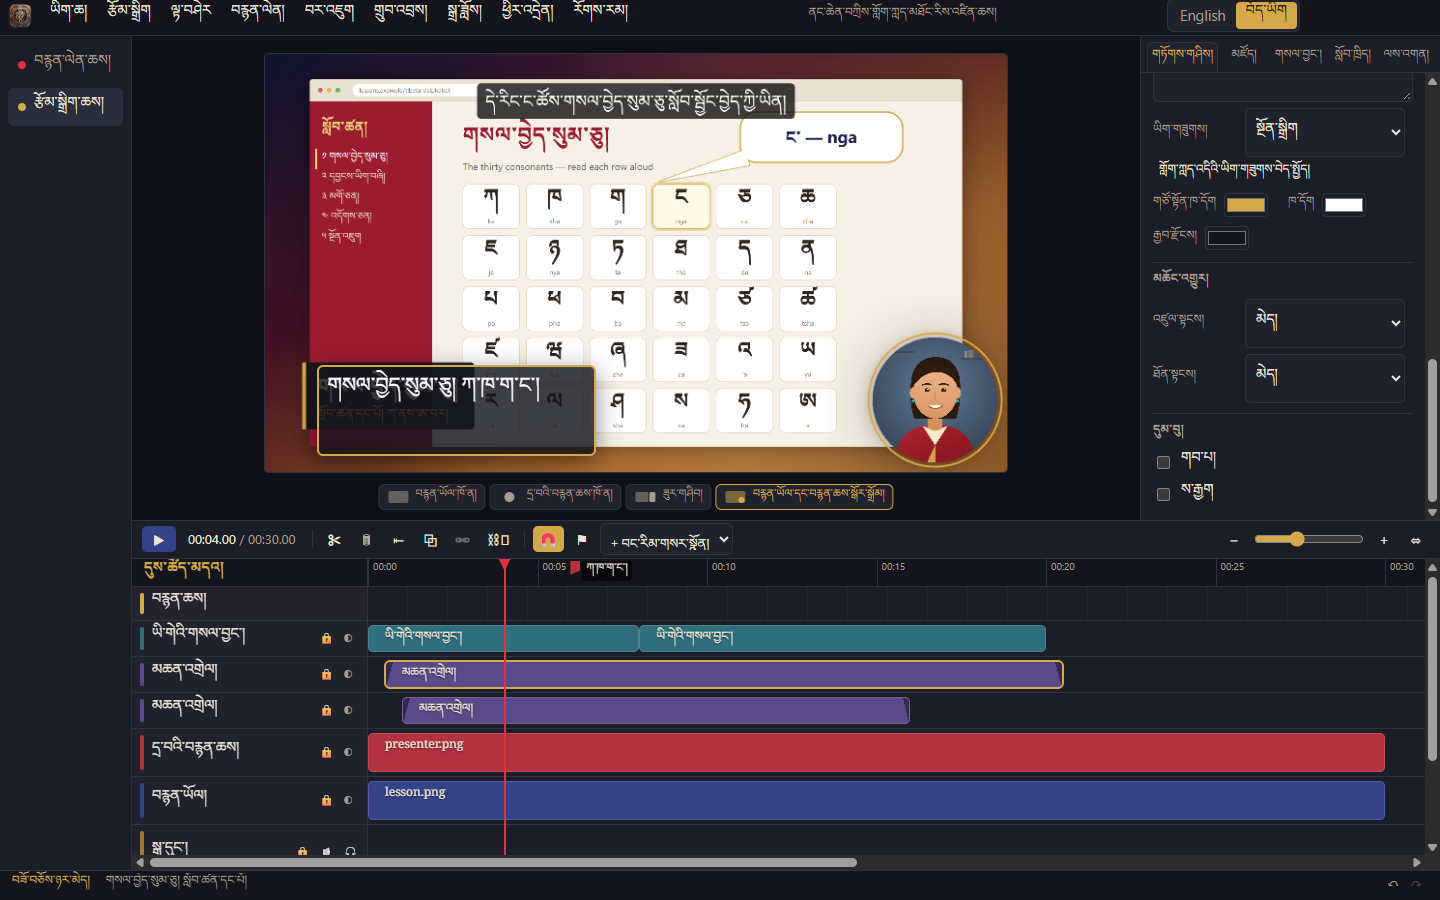
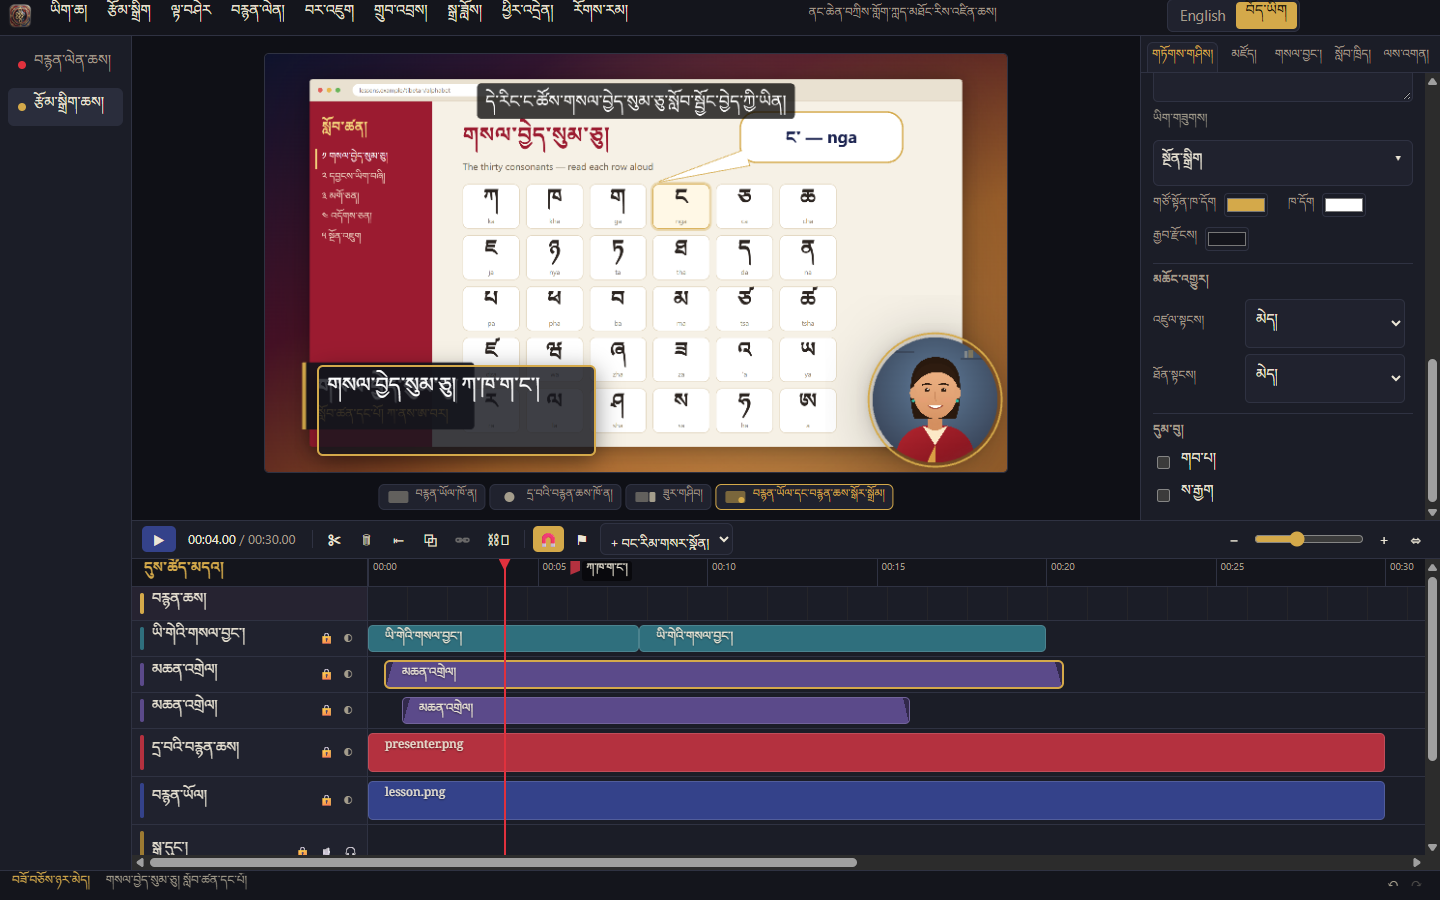
v0.2.2: font option lists every font installed on the computer
- The font picker is now a searchable list: opening it reads all installed fonts
  (Tibetan fonts first, with a ཀ་ཁ་ག་ང་། sample), each name shown in its own font;
  type to search, Enter picks the first match.
- README gallery: new fonts screenshot (Tibetan interface).

diff --git a/src/renderer/src/components/FontPicker.tsx b/src/renderer/src/components/FontPicker.tsx
@@ -1,67 +1,122 @@
 /**
- * Font choice for text, callouts, titles and captions. Lists the built-in fonts;
- * one click adds every font installed on this computer (Tibetan fonts first).
+ * Font choice for text, callouts, titles and captions: a searchable list of every
+ * font installed on this computer (read when the list is first opened, which needs
+ * a click), Tibetan fonts first, each name shown in its own font.
  */
-import { useState } from "react";
-import { BUILT_IN_FONTS, computerFontsLoaded, ensureFont, loadComputerFonts, type FontList } from "../fonts";
+import { useEffect, useMemo, useRef, useState } from "react";
+import { BUILT_IN_FONTS, computerFontsLoaded, ensureFont, isTibetanFont, loadComputerFonts, type FontList } from "../fonts";
 import { useEditor } from "../store";
+
+const TIBETAN = /[ༀ-࿿]/;
+const safe = (f: string) => `"${f.replace(/["\\]/g, "")}"`;
 
 export function FontPicker({ value, onChange }: { value: string | undefined; onChange: (family: string | undefined) => void }) {
   const t = useEditor((s) => s.t);
   const [fonts, setFonts] = useState<FontList | null>(computerFontsLoaded());
   const [state, setState] = useState<"idle" | "loading" | "denied">("idle");
-  const pick = async (family: string) => {
-    const f = family || undefined;
-    await ensureFont(f);
-    onChange(f);
+  const [open, setOpen] = useState(false);
+  const [query, setQuery] = useState("");
+  const box = useRef<HTMLDivElement>(null);
+  const search = useRef<HTMLInputElement>(null);
+
+  const pick = async (family: string | undefined) => {
+    setOpen(false);
+    setQuery("");
+    await ensureFont(family);
+    onChange(family);
   };
-  const loadMine = async () => {
-    setState("loading");
-    const list = await loadComputerFonts();
-    setFonts(list);
-    setState(list ? "idle" : "denied");
+
+  // Opening the list is the click the system needs before it lets the page read the font list.
+  const toggle = () => {
+    const next = !open;
+    setOpen(next);
+    if (next && !fonts && state !== "loading") {
+      setState("loading");
+      void loadComputerFonts().then((list) => {
+        setFonts(list);
+        setState(list ? "idle" : "denied");
+      });
+    }
   };
-  const known = new Set([...BUILT_IN_FONTS, ...(fonts?.tibetan ?? []), ...(fonts?.other ?? [])]);
-  return (
-    <div className="font-picker">
-      <label className="prop">
-        <span className="prop-label">{t("font.label")}</span>
-        <select value={value ?? ""} data-font-picker onChange={(e) => void pick(e.target.value)} style={{ fontFamily: value ? `"${value}", var(--font-latin)` : undefined }}>
-          <option value="">{t("font.default")}</option>
-          {value && !known.has(value) && <option value={value} lang="en" data-l10n-skip>{value}</option>}
-          <optgroup label={t("font.builtIn")}>
-            {BUILT_IN_FONTS.map((f) => (
-              <option key={f} value={f} lang={/[ༀ-࿿]/.test(f) ? "bo" : "en"} data-l10n-skip style={{ fontFamily: `"${f}"` }}>
-                {f}
-              </option>
-            ))}
-          </optgroup>
-          {fonts && fonts.tibetan.length > 0 && (
-            <optgroup label={t("font.tibetan")}>
-              {fonts.tibetan.map((f) => (
-                <option key={f} value={f} lang={/[ༀ-࿿]/.test(f) ? "bo" : "en"} data-l10n-skip style={{ fontFamily: `"${f}"` }}>
-                  {f}
-                </option>
-              ))}
-            </optgroup>
-          )}
-          {fonts && (
-            <optgroup label={t("font.computer")}>
-              {fonts.other.map((f) => (
-                <option key={f} value={f} lang={/[ༀ-࿿]/.test(f) ? "bo" : "en"} data-l10n-skip style={{ fontFamily: `"${f}"` }}>
-                  {f}
-                </option>
-              ))}
-            </optgroup>
-          )}
-        </select>
-      </label>
-      {!fonts && (
-        <button className="font-load" data-font-load onClick={() => void loadMine()} disabled={state === "loading"}>
-          {state === "loading" ? t("font.loading") : t("font.loadComputer")}
-        </button>
+
+  useEffect(() => {
+    if (!open) return;
+    search.current?.focus();
+    const away = (e: PointerEvent) => {
+      if (box.current && !box.current.contains(e.target as Node)) setOpen(false);
+    };
+    window.addEventListener("pointerdown", away, true);
+    return () => window.removeEventListener("pointerdown", away, true);
+  }, [open]);
+
+  const groups = useMemo(() => {
+    const q = query.trim().toLowerCase();
+    const match = (f: string) => !q || f.toLowerCase().includes(q);
+    const tibetan = [...new Set([...(fonts?.tibetan ?? []), ...BUILT_IN_FONTS.filter(isTibetanFont)])].filter(match);
+    const shown = new Set(tibetan);
+    const other = (fonts ? fonts.other : BUILT_IN_FONTS.filter((f) => !isTibetanFont(f))).filter((f) => !shown.has(f) && match(f));
+    return { tibetan, other };
+  }, [fonts, query]);
+
+  const total = groups.tibetan.length + groups.other.length;
+  const first = groups.tibetan[0] ?? groups.other[0];
+  const row = (f: string) => (
+    <button key={f} type="button" role="option" aria-selected={value === f} className={`font-row${value === f ? " selected" : ""}`} data-font={f} onClick={() => void pick(f)}>
+      <span className="font-name" lang={TIBETAN.test(f) ? "bo" : "en"} data-l10n-skip style={{ fontFamily: `${safe(f)}, var(--font-latin)` }}>
+        {f}
+      </span>
+      {isTibetanFont(f) && (
+        <span className="font-sample" lang="bo" style={{ fontFamily: `${safe(f)}, var(--font-tibetan)` }}>
+          ཀ་ཁ་ག་ང་།
+        </span>
       )}
-      {state === "denied" && <p className="hint">{t("font.denied")}</p>}
+    </button>
+  );
+
+  return (
+    <div className="font-picker" ref={box}>
+      <span className="prop-label">{t("font.label")}</span>
+      <button type="button" className="font-current" data-font-picker aria-haspopup="listbox" aria-expanded={open} onClick={toggle}>
+        <span lang={value ? (TIBETAN.test(value) ? "bo" : "en") : undefined} data-l10n-skip={value ? true : undefined} style={{ fontFamily: value ? `${safe(value)}, var(--font-latin)` : undefined }}>
+          {value ?? t("font.default")}
+        </span>
+        <span aria-hidden="true">▾</span>
+      </button>
+      {open && (
+        <div className="font-popover" role="listbox" aria-label={t("font.label")}>
+          <input
+            ref={search}
+            className="font-search"
+            type="search"
+            placeholder={t("font.search")}
+            value={query}
+            onChange={(e) => setQuery(e.target.value)}
+            onKeyDown={(e) => {
+              e.stopPropagation();
+              if (e.key === "Escape") setOpen(false);
+              if (e.key === "Enter" && first) void pick(first);
+            }}
+          />
+          <div className="font-list">
+            {!query && (
+              <button type="button" role="option" aria-selected={!value} className={`font-row${!value ? " selected" : ""}`} onClick={() => void pick(undefined)}>
+                <span className="font-name">{t("font.default")}</span>
+              </button>
+            )}
+            {state === "loading" && <p className="hint">{t("font.loading")}</p>}
+            {groups.tibetan.length > 0 && <div className="font-group">{t("font.tibetan")}</div>}
+            {groups.tibetan.map(row)}
+            {groups.other.length > 0 && (
+              <div className="font-group">
+                {fonts ? t("font.computer") : t("font.builtIn")} <span lang="en">({groups.other.length})</span>
+              </div>
+            )}
+            {groups.other.map(row)}
+            {total === 0 && state !== "loading" && <p className="hint">{t("font.none")}</p>}
+          </div>
+          {state === "denied" && <p className="hint">{t("font.denied")}</p>}
+        </div>
+      )}
     </div>
   );
 }

diff --git a/src/renderer/src/styles/tools.css b/src/renderer/src/styles/tools.css
@@ -149,6 +149,17 @@
   border: 2px solid var(--accent, #d4a94a); border-radius: 6px; outline: none;
   box-shadow: 0 6px 24px rgba(0, 0, 0, 0.45);
 }
-.font-picker { display: flex; flex-direction: column; gap: 4px; }
-.font-picker select { width: 100%; }
-.font-picker .font-load { align-self: flex-start; font-size: 12px; }
+/* Font picker: searchable list of every font on this computer */
+.font-picker { position: relative; display: flex; flex-direction: column; gap: 4px; }
+.font-current { display: flex; justify-content: space-between; align-items: center; gap: 8px; width: 100%; padding: 5px 8px; background: var(--bg-panel); color: var(--text); border: 1px solid var(--line); border-radius: 6px; font-size: 14px; text-align: left; cursor: pointer; }
+.font-current > span:first-child { overflow: hidden; text-overflow: ellipsis; white-space: nowrap; line-height: 1.6; }
+:lang(bo) .font-current > span:first-child, .font-current > span:first-child:lang(bo) { line-height: 2.4; }
+.font-popover { position: absolute; top: 100%; left: 0; right: 0; z-index: 30; margin-top: 4px; display: flex; flex-direction: column; background: #181a24; border: 1px solid var(--gold); border-radius: 8px; box-shadow: 0 12px 32px rgba(0, 0, 0, 0.5); }
+.font-search { margin: 8px; padding: 6px 8px; background: var(--bg-panel); color: var(--text); border: 1px solid var(--line); border-radius: 6px; font: inherit; }
+.font-list { max-height: 340px; overflow-y: auto; padding: 0 4px 6px; }
+.font-group { position: sticky; top: 0; padding: 6px 8px 4px; background: #181a24; color: var(--gold); font-size: 12px; }
+.font-row { display: flex; align-items: baseline; justify-content: space-between; gap: 10px; width: 100%; padding: 4px 8px; background: none; border: 0; border-radius: 5px; color: var(--text); text-align: left; cursor: pointer; }
+.font-row:hover { background: var(--bg-panel); }
+.font-row.selected { background: rgba(212, 169, 74, 0.18); color: var(--gold); }
+.font-name { font-size: 16px; line-height: 1.6; overflow: hidden; text-overflow: ellipsis; white-space: nowrap; }
+.font-sample { flex: none; font-size: 16px; line-height: 2.2; opacity: 0.8; }

diff --git a/src/main/smoke/showcase.page.js b/src/main/smoke/showcase.page.js
@@ -147,6 +147,27 @@
       await frame(9000);
     },
 
+    /** 8. Fonts: every font on this computer, Tibetan fonts first (run as a user gesture). */
+    async fonts() {
+      st().setPanelTab("properties");
+      st().select([clipOf("title").id]);
+      await frame(4000);
+      await sleep(300);
+      const btn = document.querySelector("[data-font-picker]");
+      btn.scrollIntoView({ block: "start" });
+      btn.click();
+      // Wait until this computer's fonts are listed (not just the built-in ones).
+      for (let i = 0; i < 100 && document.querySelectorAll(".font-row[data-font]").length < 20; i++) await sleep(100);
+      await sleep(600);
+      return { rows: document.querySelectorAll(".font-row[data-font]").length, tibetan: document.querySelectorAll(".font-row .font-sample").length };
+    },
+
+    async closeFonts() {
+      document.body.dispatchEvent(new PointerEvent("pointerdown", { bubbles: true }));
+      st().select([]);
+      await sleep(300);
+    },
+
     /** 7. Export dialog. */
     async exportDialog() {
       st().setPanelTab("properties");

diff --git a/src/main/smoke.ts b/src/main/smoke.ts
@@ -471,13 +471,17 @@ async function runShowcase(win: BrowserWindow, hooks: Hooks, page: <T>(code: str
     ["closeEditor", ""],
     ["library", "05-titles-library"],
     ["captions", "06-captions"],
+    ["fonts", "08-fonts"], // hundreds of fonts to draw: give it time (see wait below)
+    ["closeFonts", ""],
     ["exportDialog", "07-export"],
     ["closeExport", ""],
   ];
   for (const [step, name] of shots) {
-    await page(`window.__showcase.${step}()`);
+    // User gesture: the font step opens the list, which reads this computer's fonts.
+    const result = await win.webContents.executeJavaScript(`window.__showcase.${step}()`, true);
+    if (result) console.log(`showcase: ${step}`, JSON.stringify(result));
     if (!name) continue;
-    await wait(900);
+    await wait(step === "fonts" ? 4000 : 900);
     await fs.writeFile(join(outDir, `${name}.png`), await snapshot(win));
     console.log(`showcase: ${name}.png`);
   }

diff --git a/README.md b/README.md
@@ -26,7 +26,7 @@ Shown with the Tibetan interface (switch to English at the top right).
 <tr><td width="50%" valign="top"><a href="docs/images/screenshots/01-editor.png"><img src="docs/images/screenshots/01-editor.png" alt="ཞུ་དག་ཆས། · The editor"></a><br><b>རྩོམ་སྒྲིག་ཆས། · The editor</b><br><sub>Lesson recording with webcam bubble, lower-third title, callout and captions</sub></td><td width="50%" valign="top"><a href="docs/images/screenshots/02-webcam-shapes-borders.png"><img src="docs/images/screenshots/02-webcam-shapes-borders.png" alt="སྒོར་སྒྲོམ་གྱི་བཟོ་ལྟ། · Webcam shapes and borders"></a><br><b>སྒོར་སྒྲོམ་གྱི་བཟོ་ལྟ། · Webcam shapes and borders</b><br><sub>7 shapes, 5 proportions, 9 border styles</sub></td></tr>
 <tr><td width="50%" valign="top"><a href="docs/images/screenshots/03-webcam-filters.png"><img src="docs/images/screenshots/03-webcam-filters.png" alt="བརྙན་ཚགས། · Webcam filters"></a><br><b>བརྙན་ཚགས། · Webcam filters</b><br><sub>Skin smoothing, brighten, sharpen and 15 one-click looks</sub></td><td width="50%" valign="top"><a href="docs/images/screenshots/04-double-click-edit.png"><img src="docs/images/screenshots/04-double-click-edit.png" alt="ཡི་གེ་བཟོ་བཅོས། · Double-click to edit"></a><br><b>ཡི་གེ་བཟོ་བཅོས། · Double-click to edit</b><br><sub>Edit any title or text right on the preview</sub></td></tr>
 <tr><td width="50%" valign="top"><a href="docs/images/screenshots/05-titles-library.png"><img src="docs/images/screenshots/05-titles-library.png" alt="ཁ་བྱང་དཔེ་མཛོད། · Titles and library"></a><br><b>མཛོད། · Titles and library</b><br><sub>Title templates, callouts, highlights, step numbers</sub></td><td width="50%" valign="top"><a href="docs/images/screenshots/06-captions.png"><img src="docs/images/screenshots/06-captions.png" alt="ཡི་གེའི་གསལ་བྱང་། · Captions"></a><br><b>གསལ་བྱང་། · Captions</b><br><sub>Auto-captions, SRT/VTT import and export, cue editing</sub></td></tr>
-<tr><td width="50%" valign="top"><a href="docs/images/screenshots/07-export.png"><img src="docs/images/screenshots/07-export.png" alt="ཕྱིར་འདྲེན། · Export"></a><br><b>བརྙན་ཟློས་ཕྱིར་འདྲེན། · Export</b><br><sub>MP4, WebM, GIF and audio with hardware encoding</sub></td></tr>
+<tr><td width="50%" valign="top"><a href="docs/images/screenshots/07-export.png"><img src="docs/images/screenshots/07-export.png" alt="ཕྱིར་འདྲེན། · Export"></a><br><b>བརྙན་ཟློས་ཕྱིར་འདྲེན། · Export</b><br><sub>MP4, WebM, GIF and audio with hardware encoding</sub></td><td width="50%" valign="top"><a href="docs/images/screenshots/08-fonts.png"><img src="docs/images/screenshots/08-fonts.png" alt="ཡིག་གཟུགས།"></a><br><b>ཡིག་གཟུགས། · Fonts</b><br><sub>Every font on your computer, Tibetan fonts first, with search</sub></td></tr>
 </table>
 
 ## Status

diff --git a/docs/RELEASE_NOTES.md b/docs/RELEASE_NOTES.md
@@ -1,5 +1,11 @@
 # Release notes
 
+## 0.2.2 — all your fonts (2026-10-23)
+
+- The font option (text, callouts, titles, captions) now opens a searchable list of **every font
+  installed on your computer**: Tibetan fonts first with a ཀ་ཁ་ག་ང་། sample, then all others, each
+  name shown in its own font. Type to search; Enter picks the first match.
+
 ## 0.2.1 — fixes (2026-10-23)
 
 - Fixed: on some PCs the app stopped at its first start with "A JavaScript error occurred in the
